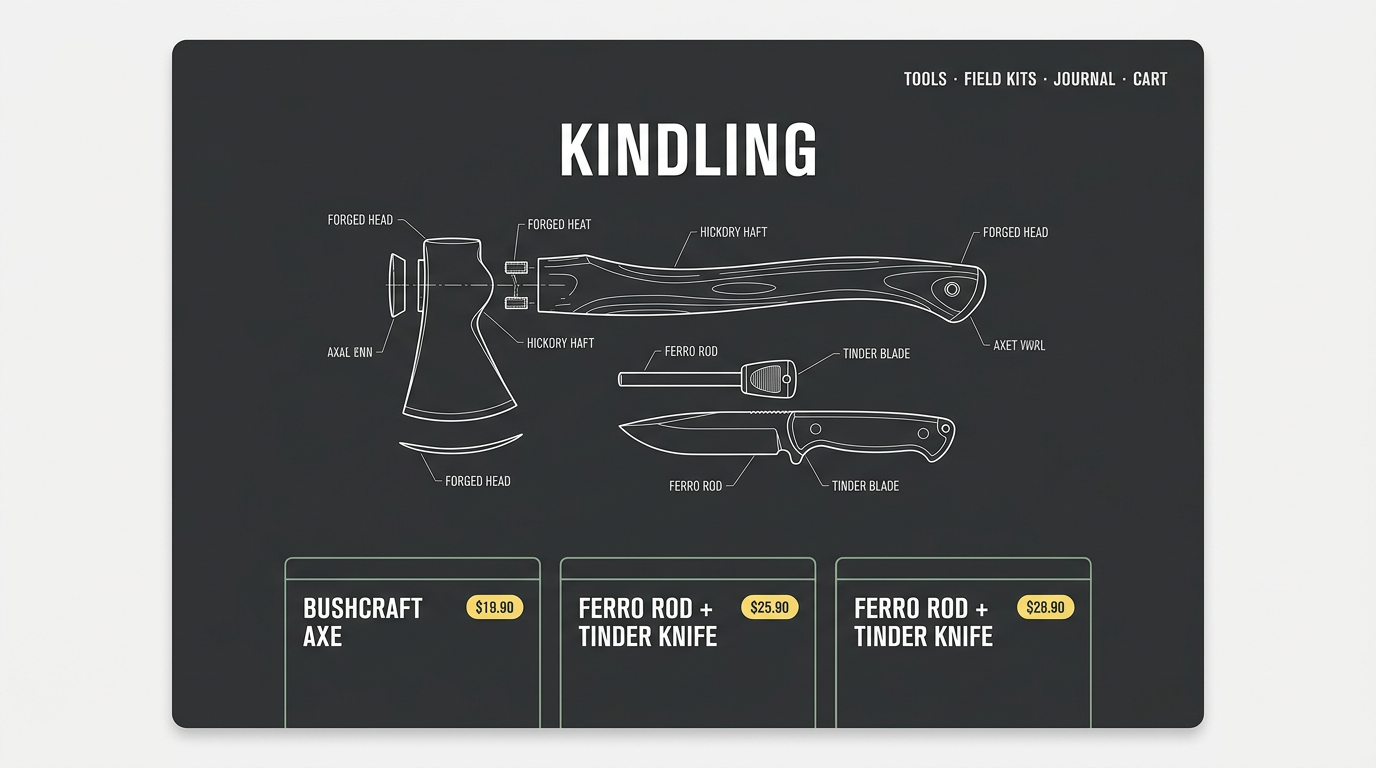
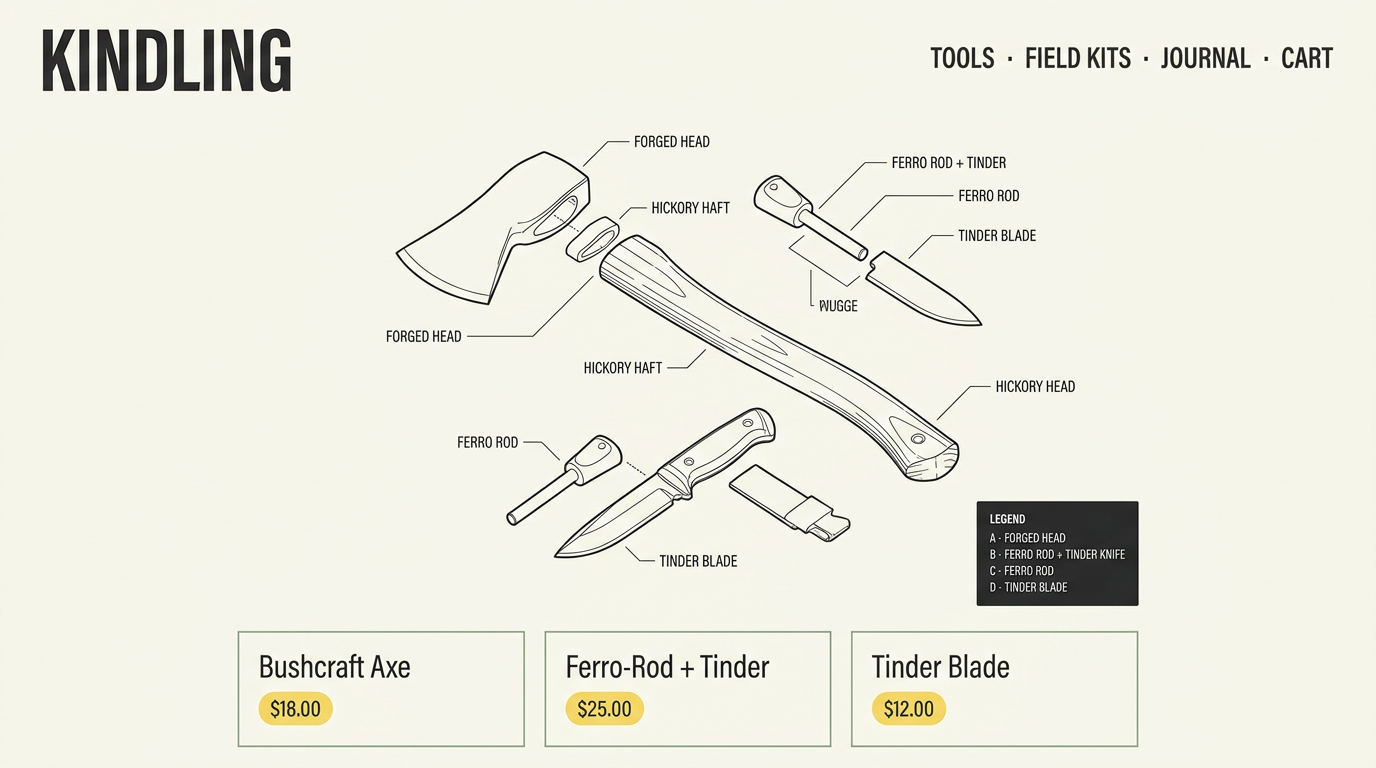
concepts: rework agave + kindling — kill last 4 pHash collisions
The four remaining perceptual-hash near-duplicates all clustered around
two visual centers: agave's cream-page-with-central-illustration silhouette
(colliding with cobbler + mire) and kindling's dark-dominant grid
(colliding with batik + comicstrip). Reworked the two anchors so each
sits at the opposite end of its luminance axis from the originals:

- agave: shifted hero composition from `illustration-led` to `full-bleed`
  and regenerated as a saturated wall-to-wall terracotta + deep-sage
  cacti pattern. Page is now warm/dark-dominant instead of cream-paper-
  dominant — kills agave↔cobbler (8/64) and agave↔mire (8/64).
- kindling: kept all tags (still condensed-sans / contemporary / outdoor
  / diagram-led) but inverted the composition to a cream-paper-dominant
  page with a smaller charcoal legend inset, instead of charcoal-
  dominant. Kills batik↔kindling (6/64) and comicstrip↔kindling (5/64).

Similarity check is now fully clean:
  - 0 hard fails (4/5-axis collisions)
  - 0 pHash thumbnail collisions (Hamming distance ≤ 8)
  - 52 watchlist (3/5-axis) pairs — acceptable baseline noise

Made-with: Cursor

diff --git a/docs/concepts/agave/index.html b/docs/concepts/agave/index.html
@@ -4,10 +4,10 @@
 	<meta charset="utf-8">
 	<title>Agave — Concept queue — Fifty</title>
 	<meta name="viewport" content="width=device-width,initial-scale=1">
-	<meta name="description" content="Desert botanical apothecary: dust pink, sage, terracotta, tall cacti hand-drawn.">
+	<meta name="description" content="Desert botanical apothecary: full-bleed saturated terracotta + deep sage cacti pattern hero, hand-drawn agave silhouettes wrapping the viewport edge-to-edge.">
 	<meta property="og:type" content="article">
 	<meta property="og:title" content="Agave — Concept queue">
-	<meta property="og:description" content="Desert botanical apothecary: dust pink, sage, terracotta, tall cacti hand-drawn.">
+	<meta property="og:description" content="Desert botanical apothecary: full-bleed saturated terracotta + deep sage cacti pattern hero, hand-drawn agave silhouettes wrapping the viewport edge-to-edge.">
 	<meta property="og:url" content="https://demo.regionallyfamous.com/concepts/agave/">
 	<link rel="icon" href="/favicon.svg" type="image/svg+xml">
 	<link rel="alternate icon" href="/favicon.ico" sizes="16x16 32x32" type="image/x-icon">
@@ -36,12 +36,12 @@
 			<header class="concept-detail__header">
 				<p class="eyebrow">On the bench — claim it</p>
 				<h1>agave<span style="color:var(--accent)">.</span></h1>
-				<p class="deck">Desert botanical apothecary: dust pink, sage, terracotta, tall cacti hand-drawn.</p>
+				<p class="deck">Desert botanical apothecary: full-bleed saturated terracotta + deep sage cacti pattern hero, hand-drawn agave silhouettes wrapping the viewport edge-to-edge.</p>
 				<dl class="concept-detail__tags">
 					<div><dt>sector</dt><dd><span class="chip chip-sector">beauty</span></dd></div>
 					<div><dt>era</dt><dd><span class="chip chip-era">contemporary</span></dd></div>
 					<div><dt>type</dt><dd><span class="chip chip-type">humanist-sans</span></dd></div>
-					<div><dt>hero</dt><dd><span class="chip chip-hero">illustration-led</span></dd></div>
+					<div><dt>hero</dt><dd><span class="chip chip-hero">full-bleed</span></dd></div>
 
 				</dl>
 			</header>
@@ -56,13 +56,13 @@
 			<section class="concept-detail__palette" aria-label="Color palette">
 				<h2>Palette</h2>
 				<ul class="swatch-row">
-					<li class="swatch"><span class="swatch__chip" style="background:#faf4e4"></span><code>#faf4e4</code></li>
-					<li class="swatch"><span class="swatch__chip" style="background:#6a3622"></span><code>#6a3622</code></li>
-					<li class="swatch"><span class="swatch__chip" style="background:#ac6039"></span><code>#ac6039</code></li>
-					<li class="swatch"><span class="swatch__chip" style="background:#d2ccbe"></span><code>#d2ccbe</code></li>
-					<li class="swatch"><span class="swatch__chip" style="background:#c8a386"></span><code>#c8a386</code></li>
+					<li class="swatch"><span class="swatch__chip" style="background:#8e442b"></span><code>#8e442b</code></li>
+					<li class="swatch"><span class="swatch__chip" style="background:#5f6d56"></span><code>#5f6d56</code></li>
+					<li class="swatch"><span class="swatch__chip" style="background:#eae2cb"></span><code>#eae2cb</code></li>
+					<li class="swatch"><span class="swatch__chip" style="background:#523a2e"></span><code>#523a2e</code></li>
+					<li class="swatch"><span class="swatch__chip" style="background:#ae7e72"></span><code>#ae7e72</code></li>
 				</ul>
-				<p class="palette-tags"><span class="chip chip-palette">pink</span><span class="chip chip-palette">sage</span><span class="chip chip-palette">terracotta</span><span class="chip chip-palette">cream</span></p>
+				<p class="palette-tags"><span class="chip chip-palette">terracotta</span><span class="chip chip-palette">sage</span><span class="chip chip-palette">pink</span><span class="chip chip-palette">cream</span></p>
 			</section>
 
 			<section class="concept-detail__type" aria-label="Typography">

diff --git a/docs/concepts/index.html b/docs/concepts/index.html
@@ -163,11 +163,11 @@
 			<span class="count"><strong>100</strong> waiting</span>
 		</header>
 		<section class="concept-grid" aria-label="Unbuilt concepts">
-			<div class="concept" data-slug="agave" data-sector="beauty" data-era="contemporary" data-type="humanist-sans" data-hero="illustration-led" data-palette="pink sage terracotta cream">
+			<div class="concept" data-slug="agave" data-sector="beauty" data-era="contemporary" data-type="humanist-sans" data-hero="full-bleed" data-palette="terracotta sage pink cream">
 				<a class="thumb" href="../mockups/agave.png" aria-label="Preview Agave mockup at full size" style="background-image:url(../mockups/agave.png)"></a>
 				<a class="body" href="./agave/">
 					<h3>agave</h3>
-					<span class="palette-dots" aria-hidden="false"><span class="dot" style="background:#faf4e4" aria-label="palette 1 of 5"></span><span class="dot" style="background:#6a3622" aria-label="palette 2 of 5"></span><span class="dot" style="background:#ac6039" aria-label="palette 3 of 5"></span><span class="dot" style="background:#d2ccbe" aria-label="palette 4 of 5"></span><span class="dot" style="background:#c8a386" aria-label="palette 5 of 5"></span></span>
+					<span class="palette-dots" aria-hidden="false"><span class="dot" style="background:#8e442b" aria-label="palette 1 of 5"></span><span class="dot" style="background:#5f6d56" aria-label="palette 2 of 5"></span><span class="dot" style="background:#eae2cb" aria-label="palette 3 of 5"></span><span class="dot" style="background:#523a2e" aria-label="palette 4 of 5"></span><span class="dot" style="background:#ae7e72" aria-label="palette 5 of 5"></span></span>
 					<p class="meta"><span class="badge">In queue</span><span class="chip chip-sector" data-sector="beauty">beauty</span><span class="chip chip-era" data-era="contemporary">contemporary</span><span class="chip chip-type" data-type="humanist-sans">humanist-sans</span></p>
 					<p class="pick">Open concept <span class="arrow">→</span></p>
 				</a>
@@ -608,7 +608,7 @@
 				<a class="thumb" href="../mockups/kindling.png" aria-label="Preview Kindling mockup at full size" style="background-image:url(../mockups/kindling.png)"></a>
 				<a class="body" href="./kindling/">
 					<h3>kindling</h3>
-					<span class="palette-dots" aria-hidden="false"><span class="dot" style="background:#f1f1ef" aria-label="palette 1 of 5"></span><span class="dot" style="background:#323335" aria-label="palette 2 of 5"></span><span class="dot" style="background:#676969" aria-label="palette 3 of 5"></span><span class="dot" style="background:#b7b8b8" aria-label="palette 4 of 5"></span><span class="dot" style="background:#8b8c8b" aria-label="palette 5 of 5"></span></span>
+					<span class="palette-dots" aria-hidden="false"><span class="dot" style="background:#f5f5ea" aria-label="palette 1 of 5"></span><span class="dot" style="background:#afafa9" aria-label="palette 2 of 5"></span><span class="dot" style="background:#f4d564" aria-label="palette 3 of 5"></span><span class="dot" style="background:#2b2b2b" aria-label="palette 4 of 5"></span><span class="dot" style="background:#71716e" aria-label="palette 5 of 5"></span></span>
 					<p class="meta"><span class="badge">In queue</span><span class="chip chip-sector" data-sector="outdoor">outdoor</span><span class="chip chip-era" data-era="contemporary">contemporary</span><span class="chip chip-type" data-type="condensed-sans">condensed-sans</span></p>
 					<p class="pick">Open concept <span class="arrow">→</span></p>
 				</a>

diff --git a/docs/concepts/kindling/index.html b/docs/concepts/kindling/index.html
@@ -56,11 +56,11 @@
 			<section class="concept-detail__palette" aria-label="Color palette">
 				<h2>Palette</h2>
 				<ul class="swatch-row">
-					<li class="swatch"><span class="swatch__chip" style="background:#f1f1ef"></span><code>#f1f1ef</code></li>
-					<li class="swatch"><span class="swatch__chip" style="background:#323335"></span><code>#323335</code></li>
-					<li class="swatch"><span class="swatch__chip" style="background:#676969"></span><code>#676969</code></li>
-					<li class="swatch"><span class="swatch__chip" style="background:#b7b8b8"></span><code>#b7b8b8</code></li>
-					<li class="swatch"><span class="swatch__chip" style="background:#8b8c8b"></span><code>#8b8c8b</code></li>
+					<li class="swatch"><span class="swatch__chip" style="background:#f5f5ea"></span><code>#f5f5ea</code></li>
+					<li class="swatch"><span class="swatch__chip" style="background:#afafa9"></span><code>#afafa9</code></li>
+					<li class="swatch"><span class="swatch__chip" style="background:#f4d564"></span><code>#f4d564</code></li>
+					<li class="swatch"><span class="swatch__chip" style="background:#2b2b2b"></span><code>#2b2b2b</code></li>
+					<li class="swatch"><span class="swatch__chip" style="background:#71716e"></span><code>#71716e</code></li>
 				</ul>
 				<p class="palette-tags"><span class="chip chip-palette">charcoal</span><span class="chip chip-palette">sage</span><span class="chip chip-palette">butter</span><span class="chip chip-palette">white</span></p>
 			</section>

diff --git a/bin/concept_seed.py b/bin/concept_seed.py
@@ -198,12 +198,12 @@ CONCEPTS: list[dict] = [
     {
         "slug": "agave",
         "name": "Agave",
-        "blurb": "Desert botanical apothecary: dust pink, sage, terracotta, tall cacti hand-drawn.",
-        "palette_tags": ["pink", "sage", "terracotta", "cream"],
+        "blurb": "Desert botanical apothecary: full-bleed saturated terracotta + deep sage cacti pattern hero, hand-drawn agave silhouettes wrapping the viewport edge-to-edge.",
+        "palette_tags": ["terracotta", "sage", "pink", "cream"],
         "type_genre": "humanist-sans",
         "era": "contemporary",
         "sector": "beauty",
-        "hero_composition": "illustration-led",
+        "hero_composition": "full-bleed",
         "type_specimen": "Display: Recoleta. Body: Inter.",
     },
     {

diff --git a/docs/concepts/AUDIT.md b/docs/concepts/AUDIT.md
@@ -6,7 +6,7 @@ Generated by `bin/audit-concepts.py` from `bin/concept_seed.py`. Re-run after ed
 
 - **Collision clusters:** 0
 
-- **Watchlist pairs (3-axis overlap):** 53
+- **Watchlist pairs (3-axis overlap):** 52
 
 
 ## How to read this
@@ -26,8 +26,7 @@ _No collision clusters at the current threshold._
 | pair | shared axes |
 | --- | --- |
 | `aero` ↔ `lustre` | type, era, hero |
-| `agave` ↔ `frond` | type, era, hero |
-| `agave` ↔ `halcyon` | palette, era, sector |
+| `agave` ↔ `cumulus` | type, era, hero |
 | `apiary` ↔ `mercado` | era, sector, hero |
 | `apiary` ↔ `mezze` | type, era, sector |
 | `basalt` ↔ `terrazzo` | era, sector, hero |
@@ -215,8 +214,8 @@ Where the bench is over- or under-indexed. A concept with a rare combination is 
 | --- | ---: | --- |
 | `collage` | 7 | ▮▮▮▮▮ |
 | `diagram-led` | 11 | ▮▮▮▮▮▮▮▮ |
-| `full-bleed` | 7 | ▮▮▮▮▮ |
-| `illustration-led` | 19 | ▮▮▮▮▮▮▮▮▮▮▮▮▮ |
+| `full-bleed` | 8 | ▮▮▮▮▮▮ |
+| `illustration-led` | 18 | ▮▮▮▮▮▮▮▮▮▮▮▮ |
 | `multi-panel` | 1 | ▮ |
 | `pattern-led` | 10 | ▮▮▮▮▮▮▮ |
 | `photo-hero` | 29 | ▮▮▮▮▮▮▮▮▮▮▮▮▮▮▮▮▮▮▮▮ |
